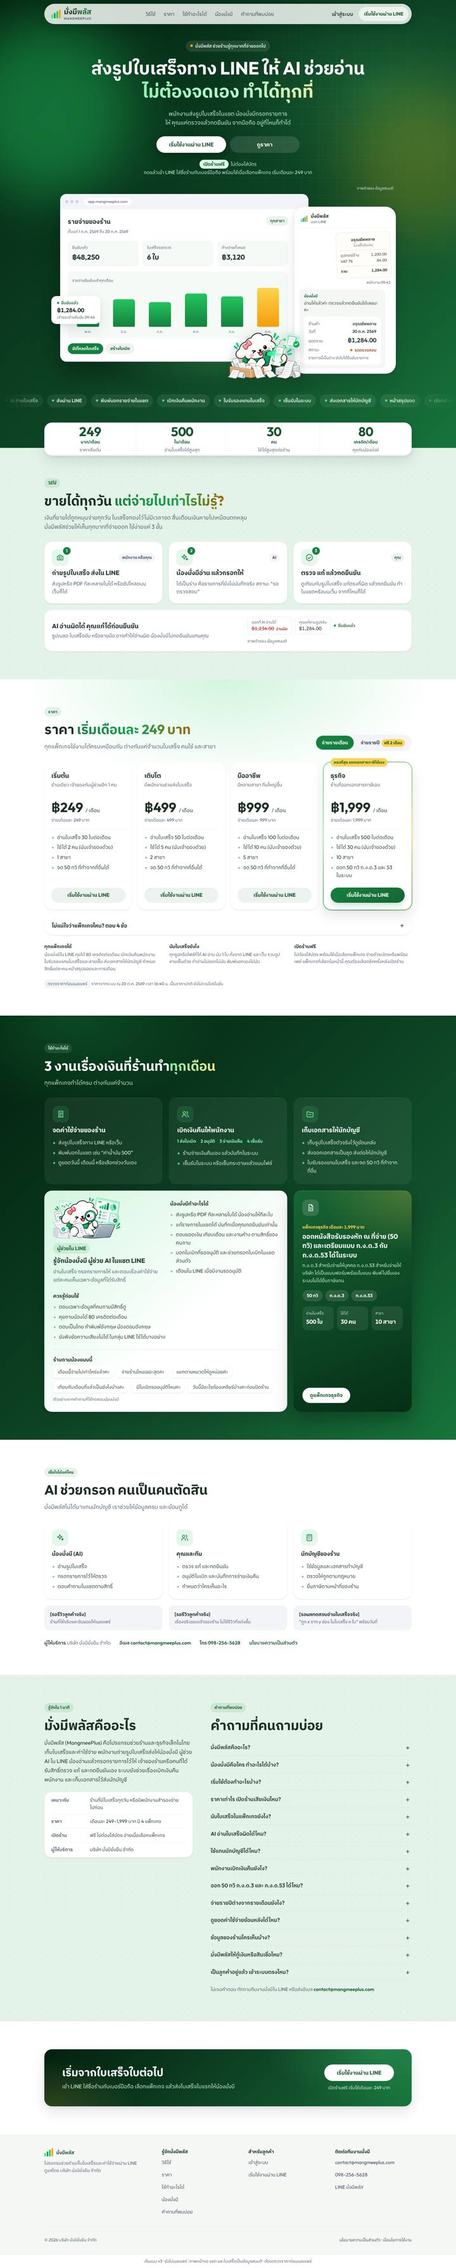
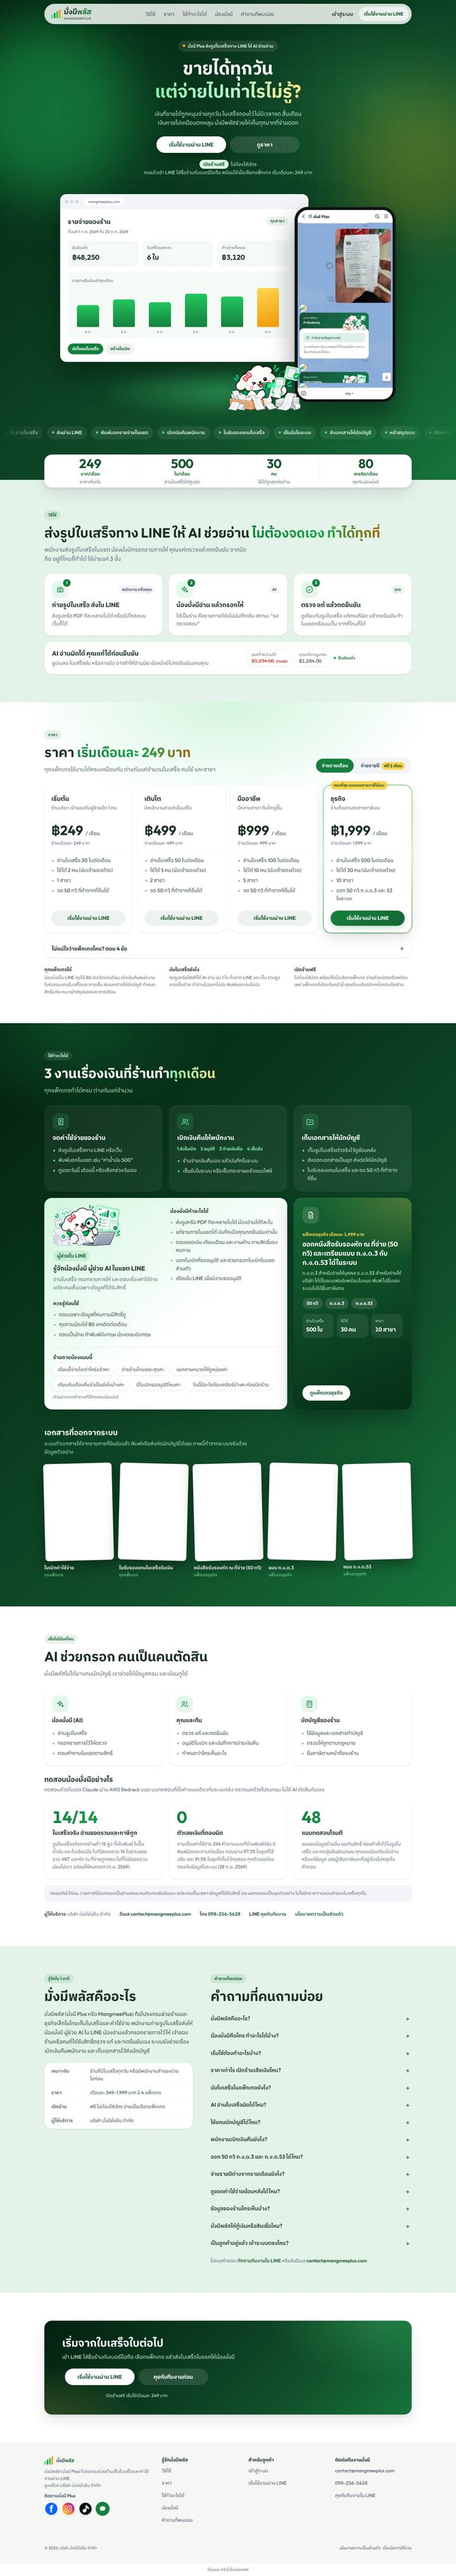
docs: v3 website leads with the money-hole question, shows real LINE screenshots, test results and issued documents
The hero headline becomes ขายได้ทุกวัน แต่จ่ายไปเท่าไรไม่รู้? and the
phone plays the owner's real LINE screenshots (cashier name blurred).
Review placeholders give way to recorded น้องมั่งมี results: 14/14 real
receipts, 0 wrong amounts across 294 questions, 48 attack cases. Five
documents rendered by the system's own renderers with sample data,
มั่งมี Plus socials, the team LINE OA and mangmeeplus.com/login are added;
simulated-data captions and the price-check note are removed.

Claude-Session: https://claude.ai/code/session_01J7ScAcuHmAWY52w61WzGcF

diff --git a/docs/prototypes/mangmee-main-website/v3/README.md b/docs/prototypes/mangmee-main-website/v3/README.md
@@ -155,9 +155,19 @@
 - การ์ดแพ็กเกจ 1,999 มีขอบไล่สีหมุนรอบ
 - ถ้าส่งภาพหน้าจอเทมเพลตที่ชอบมา จะปรับให้ใกล้ขึ้นได้
 
+### รอบ 14: หัวเรื่องจากปัญหา ภาพ LINE จริง ผลทดสอบจริง เอกสารจริง
+
+- หัวเรื่องแรก: “ขายได้ทุกวัน แต่จ่ายไปเท่าไรไม่รู้?” ส่วน “ส่งรูปใบเสร็จทาง LINE ให้ AI ช่วยอ่าน ไม่ต้องจดเอง ทำได้ทุกที่” ย้ายไปเป็นหัวข้อ 3 ขั้น
+- แชตในภาพแรกเป็นภาพหน้าจอ LINE จริงที่ส่งมา เลื่อนเองช้า ๆ เหมือนวิดีโอ (เบลอชื่อแคชเชียร์บนใบเสร็จ เพราะเป็นชื่อคนจริง)
+- เอาช่องรอรีวิวออก ใส่ผลทดสอบจริงของน้องมั่งมีแทน: 14/14 ใบเสร็จจริงที่มียอดรวม, 0 ตัวเลขเงินที่ตอบผิดจาก 294 คำถาม, ทดสอบโจมตี 48 แบบ พร้อมบอกวิธีทดสอบ
+- เพิ่มตัวอย่างเอกสารที่ออกจากระบบ 5 แบบ: ใบเบิก ใบรับรองแทนใบเสร็จ 50 ทวิ ภ.ง.ด.3 ภ.ง.ด.53 ทำจากระบบจริงด้วยข้อมูลตัวอย่าง
+- ใส่ชื่อ “มั่งมี Plus” ลิงก์ Facebook Instagram TikTok พร้อมไอคอน และปุ่มคุยกับทีมงานใน LINE
+- เข้าสู่ระบบใช้ mangmeeplus.com/login
+- เอาออก: ป้ายภาพจำลอง ข้อมูลสมมติ ป้ายตรวจราคา และบรรทัดข้อความเสียง/กลุ่ม LINE
+
 ## เรื่องที่รอคุณตัดสินใจ
 
-1. **ลิงก์เข้าสู่ระบบ** คุณให้ `app.mangmeeplus.com/login` แต่ระบบปัจจุบันใช้ `mangmeeplus.com/login` ตอนนี้ต้นแบบใช้ลิงก์ที่คุณให้ ต้องเลือกหนึ่งอัน
+1. ~~ลิงก์เข้าสู่ระบบ~~ ตัดสินแล้ว: ใช้ `mangmeeplus.com/login`
 2. **ชุดสี** ตอนนี้ใช้ชุดมินิมอล (ขาว เทาอ่อน เขียว และทองจากโลโก้ 2 จุด) ถ้าอยากให้ปุ่มกลับเป็นสีทอง หรือให้หน้าจอแรกเป็นพื้นเขียวเข้มอีกครั้ง บอกได้
 3. **หัวเรื่องหน้าแรก** “ส่งรูปใบเสร็จทาง LINE ให้ AI ช่วยอ่าน คุณตรวจ แล้วกดยืนยัน” ใช้เลย หรือทดสอบกับลูกค้าก่อน
 4. **Title ใน Google** เปลี่ยนเป็น “… AI อ่านใบเสร็จและบันทึกค่าใช้จ่ายผ่าน LINE” หรือคง title เดิมไว้ก่อน

diff --git a/docs/agent-memory/mangmee-main-website-prototype-2026-10-20.md b/docs/agent-memory/mangmee-main-website-prototype-2026-10-20.md
@@ -323,3 +323,16 @@ Decisions (apply_r13.py, reproducible from the round-12 file):
 - Featured plan: rotating conic-gradient ring via @property --ang (replaces the solid ring + pulse).
 - `.hl` gradient words in h2s.
 Verification: Chromium 1440/390 no overflow (home 7155 / 12627; pricing 3153 / 5500); marquee translateX moves (-31→-111px in 1.5s); count-up mid-scroll 62/124/7/20 then 249/500/30/80; ring --ang advances; scroll test 0 transparent sections; ask bubbles opacity 1 when in view; hover lift -6px; canvas version 22.
+
+## Revision 3n — pain headline, real LINE reel, real test results, issued documents, socials
+
+Status: Complete — prototype only.
+Trigger: Owner sent 3 real LINE screenshots and asked: pain line as H1; remove review placeholders; put น้องมั่งมี test results (method, accuracy, safety); add "มั่งมี Plus" name, social links with icons, team LINE OA; turn the real LINE screenshots into a scrolling video in place of the simulated chat; app.mangmeeplus.com → mangmeeplus.com; remove all "ภาพจำลอง ข้อมูลสมมติ", the price-check note and the voice/group line. Mid-turn: add sample 50 ทวิ, ภ.ง.ด.53, ภ.ง.ด.3, ใบเบิก, ใบรับรองแทนใบเสร็จ issued by our system.
+Decisions:
+- H1 "ขายได้ทุกวัน แต่จ่ายไปเท่าไรไม่รู้?"; kicker carries "มั่งมี Plus ส่งรูปใบเสร็จทาง LINE ให้ AI ช่วยอ่าน"; the old H1 becomes the #how H2.
+- Reel: owner screenshots 5→4→3 cropped and stacked (scratchpad/reel/build.py), cashier name on the photographed receipt blurred (a real third party), LINE top/bottom bars fixed, strip animated with holds (18 s loop, off under reduced motion). Simulated confirm card and captions removed. Dashboard mock numbers remain illustrative (noted on canvas).
+- Test results (verified in source): OCR 14/14 printed-total receipts kept gross/VAT/WHT of 15 real images (receipt-ocr-real-sample-evaluation-2026-09-08.md:131); advisor 97.3% (217/223) / 91.5% (65/71), 0 wrong numbers, code-graded (mangmee-ai-expense-advisor-spec-th.md:172-175); 48 frozen attack cases (line-ai-security-eval.ts). Site does not claim "all 48 pass" (no single recorded run covering all three lanes); note says sample set, not a population accuracy, and records are drafts until a person confirms.
+- Socials from line-official-social-card.json (FB share link, IG/TikTok @mangmee_plus) with repo icons official-oa-*.png; team OA https://lin.ee/6Sc38L6 (STAFF_OA_URL). JSON-LD Organization gains sameAs; alternateName adds "มั่งมี Plus". Login decision closed: mangmeeplus.com/login.
+- Documents: a background helper rendered the five documents with the real renderers and fictional data (scratchpad/doc-samples/render.ts; `pnpm install --frozen-lockfile --filter @watchdog-bms/api...`, repo tree unchanged; Noto Sans Thai fetched from npm for rasterising only). Shown as a tilted paper gallery in the dark section; package labels: ใบเบิก/ใบรับรองแทนใบเสร็จ all packages, 50 ทวิ/ภ.ง.ด.3/ภ.ง.ด.53 ธุรกิจ.
+- build_pricing.py no longer depends on the removed price-check paragraph.
+Verification: Chromium 1440/390 no overflow (home 8122 / 14023; pricing 3103 / 5429); scroll test 0 transparent sections; none of "ภาพจำลอง/ข้อมูลสมมติ/ตรวจราคาก่อนเผยแพร่/app.mangmeeplus" left in Main or Pricing; JSON-LD parses; FAQ parity kept; canvas version 25 (the version counter had moved from 22 to 25 between publishes; publish was accepted without conflict).
